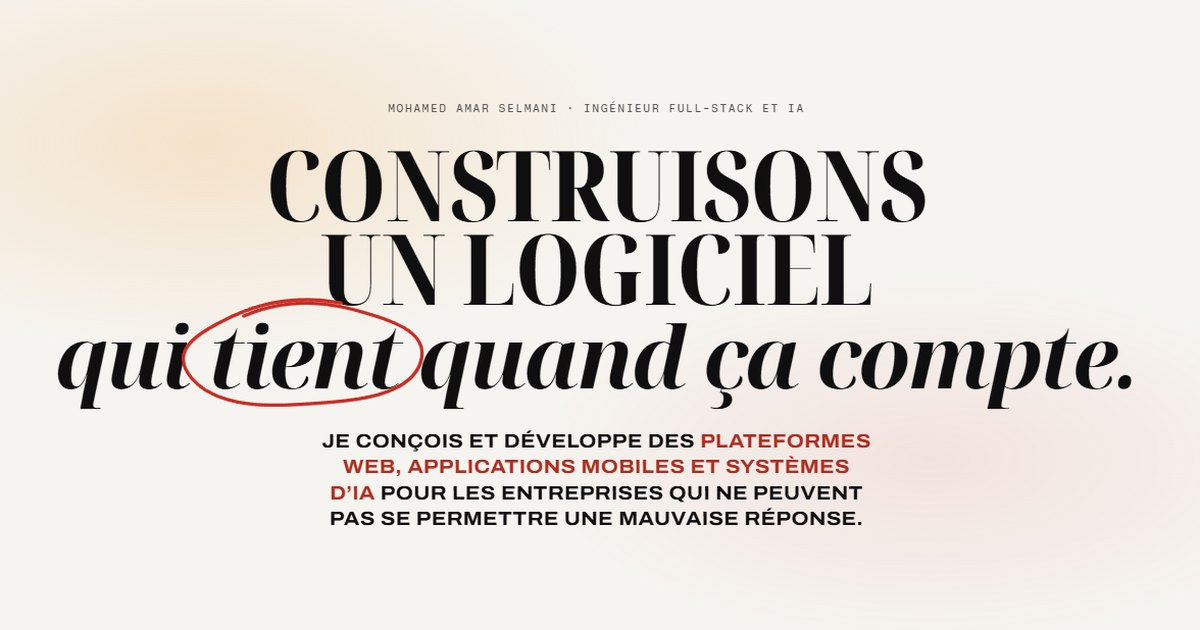
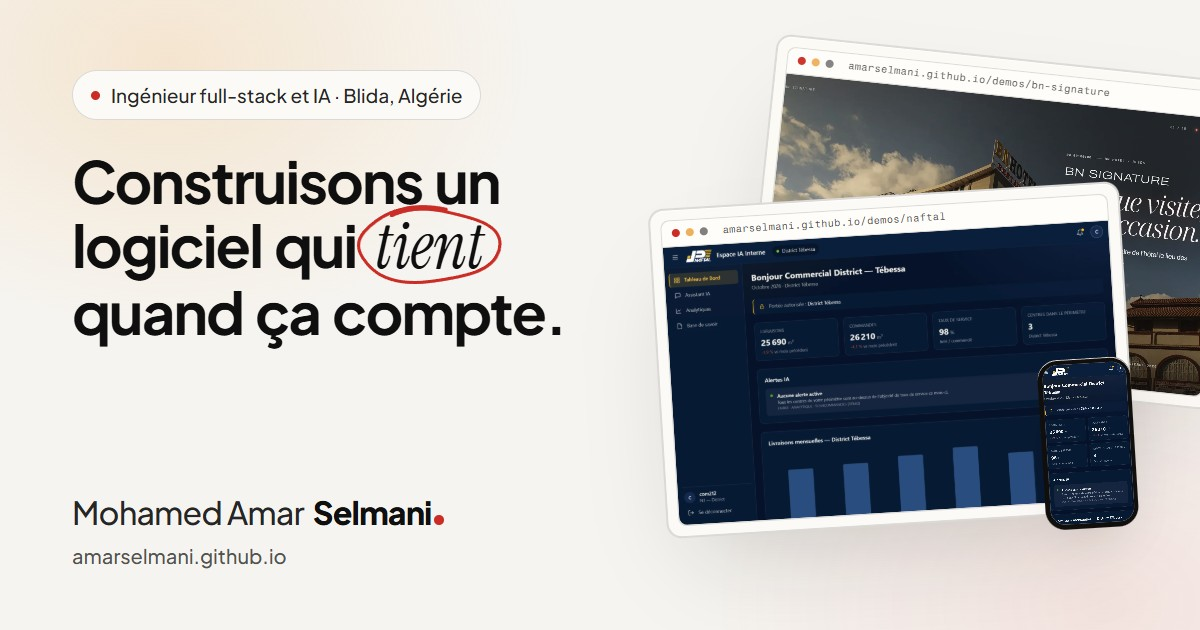
New link preview in the Clean Sheet design
The preview shared on WhatsApp, LinkedIn and Facebook still showed the
Contact Sheet capitals. The new one (EN and FR, 1200 x 630) has the headline
with the word circled in red pencil, the name and address, and real captures
of Naftal AI and BN Signature on the light table.

- src/og.html renders it from the site's own styles (open it, or ?fr, at
  1200 x 630 and save a screenshot over img/og.jpg / img/og-fr.jpg).
- og:image carries ?v= so sharing apps fetch the new picture; og:image:alt
  added.

diff --git a/src/og.html b/src/og.html
@@ -1,0 +1,110 @@
+<!doctype html>
+<!-- Link preview image (img/og.jpg, img/og-fr.jpg), 1200 × 630, in the site's own design ("Clean Sheet").
+     Render: serve the repo (python -m http.server 8000), open src/og.html (English) or src/og.html?fr
+     (French) in a 1200 × 630 window, wait for body[data-ready], save a JPEG screenshot over img/og.jpg or
+     img/og-fr.jpg. Not linked from the site. -->
+<html lang="en" data-genre="thriller" data-intensity="1" data-theme="light" data-tint="selmani">
+<head>
+<meta charset="utf-8">
+<meta name="robots" content="noindex">
+<title>Link preview</title>
+<link rel="stylesheet" href="https://fonts.googleapis.com/css2?family=Plus+Jakarta+Sans:ital,wght@0,200..800;1,200..800&family=Instrument+Serif:ital@0;1&family=Fragment+Mono&display=swap">
+<link rel="stylesheet" href="../assets/halation/halation.css">
+<link rel="stylesheet" href="../assets/halation/selmani.css">
+<link rel="stylesheet" href="../assets/site.css">
+<style>
+  html, body { margin: 0; inline-size: 1200px; block-size: 630px; overflow: hidden; }
+  body {
+    position: relative;
+    background:
+      radial-gradient(520px 380px at 14% 10%, color-mix(in oklch, var(--fill) 22%, transparent), transparent 70%),
+      radial-gradient(560px 420px at 92% 96%, color-mix(in oklch, var(--key) 9%, transparent), transparent 70%),
+      var(--bg);
+  }
+  .og { position: absolute; inset: 0; display: grid; grid-template-columns: 640px 1fr; }
+  .og__copy { display: flex; flex-direction: column; padding: 70px 0 58px 72px; }
+  .og .hero__kicker { align-self: flex-start; margin: 0 0 30px; padding: 9px 18px; gap: 11px; font-size: 19px; }
+  .og .hero__kicker::before { inline-size: 9px; block-size: 9px; }
+  .og__title { margin: 0; font-size: 58px; font-weight: 700; line-height: 1.06; letter-spacing: -0.032em; word-spacing: 0.06em; color: var(--fg-strong); }
+  .og__title .mark { position: relative; margin-inline: 0.1em 0.03em; font-family: var(--font-accent); font-style: italic; font-weight: 400; font-size: 1.12em; letter-spacing: -0.005em; }
+  .og__who { display: flex; flex-direction: column; gap: 10px; margin-block-start: auto; }
+  .og .brand { font-size: 32px; letter-spacing: -0.025em; }
+  .og__url { font-size: 20px; font-weight: 500; color: var(--fg-mute); }
+  /* two real captures on the light table, the front one with its phone */
+  .og__table { position: relative; }
+  .og__print { position: absolute; display: block; inline-size: 470px; }
+  .og__print--back { inset-block-start: 58px; inset-inline-start: 120px; rotate: 6deg; opacity: 0.96; }
+  .og__print--front { inset-block-start: 196px; inset-inline-start: 18px; rotate: -3.5deg; }
+  .og .print__mat { padding: 10px; }
+  .og .mock__url { font-size: 10px; }
+  .mark-svg { position: absolute; left: 0; top: 0; overflow: visible; pointer-events: none; }
+</style>
+</head>
+<body>
+<div class="og">
+  <div class="og__copy">
+    <p class="hero__kicker" data-t="kicker">Full-stack &amp; AI engineer · Blida, Algeria</p>
+    <h1 class="og__title" data-t="title">Let’s build software<br>that <span class="mark">holds</span><br>when it counts.</h1>
+    <div class="og__who">
+      <span class="brand"><span class="brand__first">Mohamed Amar</span><span class="brand__last">Selmani</span></span>
+      <span class="og__url">amarselmani.github.io</span>
+    </div>
+  </div>
+  <div class="og__table" aria-hidden="true">
+    <span class="og__print og__print--back"><span class="print__mat"><span class="mock mock--browser">
+      <span class="mock__bar"><i></i><i></i><i></i><span class="mock__url">amarselmani.github.io/demos/bn-signature</span></span>
+      <span class="mock__screen"><img src="../img/bn/deck-01.webp" alt="" style="object-position:50% 50%"></span>
+    </span></span></span>
+    <span class="og__print og__print--front"><span class="print__mat"><span class="mock mock--browser">
+      <span class="mock__bar"><i></i><i></i><i></i><span class="mock__url">amarselmani.github.io/demos/naftal</span></span>
+      <span class="mock__screen"><img src="../img/naftal-ai.webp" alt="" style="object-position:0 0"></span>
+      <span class="mock mock--phone mock--over" style="--ar:780 / 1410"><span class="mock__screen"><img src="../img/naftal-ai-phone.webp" alt=""></span></span>
+    </span></span></span>
+  </div>
+</div>
+<script>
+  // French: src/og.html?fr
+  if (/[?&]fr\b/.test(location.search)) {
+    document.documentElement.lang = 'fr';
+    document.querySelector('[data-t="kicker"]').textContent = 'Ingénieur full-stack et IA · Blida, Algérie';
+    document.querySelector('[data-t="title"]').innerHTML = 'Construisons un<br>logiciel qui <span class="mark">tient</span><br>quand ça compte.';
+  }
+  // the red pencil loop around the key word, drawn the way assets/site.js draws it
+  function smooth(p) {
+    var d = 'M' + p[0][0].toFixed(1) + ' ' + p[0][1].toFixed(1);
+    for (var i = 0; i < p.length - 1; i++) {
+      var a = p[i - 1] || p[i], b = p[i], c = p[i + 1], e = p[i + 2] || c;
+      d += ' C' + (b[0] + (c[0] - a[0]) / 6).toFixed(1) + ' ' + (b[1] + (c[1] - a[1]) / 6).toFixed(1) + ' ' +
+        (c[0] - (e[0] - b[0]) / 6).toFixed(1) + ' ' + (c[1] - (e[1] - b[1]) / 6).toFixed(1) + ' ' + c[0].toFixed(1) + ' ' + c[1].toFixed(1);
+    }
+    return d;
+  }
+  function loop(x, y, w, h) {
+    var cx = x + w / 2, cy = y + h / 2, rx = w / 2 + Math.max(8, h * 0.16), ry = Math.max(h * 0.42, 12);
+    var a0 = -Math.PI * 0.68, turn = 1.13, tilt = -0.02, pts = [];
+    for (var i = 0; i <= 40; i++) {
+      var t = i / 40, ang = a0 + t * turn * 2 * Math.PI;
+      var k = 1 + 0.035 * Math.sin(3 * ang + 1.3) + 0.02 * Math.sin(5 * ang + 4.1) + t * 0.08;
+      var px = Math.cos(ang) * rx * k, py = Math.sin(ang) * ry * k;
+      pts.push([cx + px * Math.cos(tilt) - py * Math.sin(tilt), cy + px * Math.sin(tilt) + py * Math.cos(tilt)]);
+    }
+    return smooth(pts);
+  }
+  document.fonts.ready.then(function () {
+    var el = document.querySelector('.og__title .mark'), host = el.parentElement;
+    host.style.position = 'relative';
+    var hb = host.getBoundingClientRect(), b = el.getBoundingClientRect();
+    var d = loop(b.left - hb.left, b.top - hb.top, b.width, b.height);
+    var NS = 'http://www.w3.org/2000/svg', svg = document.createElementNS(NS, 'svg');
+    svg.setAttribute('class', 'mark-svg'); svg.setAttribute('width', host.offsetWidth); svg.setAttribute('height', host.offsetHeight);
+    [['mark-svg__main', ''], ['mark-svg__ghost', 'translate(1.2 0.9)']].forEach(function (c) {
+      var p = document.createElementNS(NS, 'path'); p.setAttribute('class', c[0]); p.setAttribute('d', d);
+      if (c[1]) p.setAttribute('transform', c[1]); svg.appendChild(p);
+    });
+    host.appendChild(svg);
+    Promise.all(Array.prototype.map.call(document.images, function (i) { return i.decode ? i.decode().catch(function () {}) : null; }))
+      .then(function () { document.body.dataset.ready = '1'; });
+  });
+</script>
+</body>
+</html>

diff --git a/fr/index.html b/fr/index.html
@@ -15,9 +15,10 @@
 <meta property="og:title" content="Mohamed Amar Selmani · Ingénieur full-stack et IA">
 <meta property="og:description" content="Ingénieur full-stack et IA à Blida, en Algérie. Plateformes web, applications mobiles et systèmes d’IA qui tiennent quand ça compte, chacun avec une démo en ligne.">
 <meta property="og:url" content="https://amarselmani.github.io/fr/">
-<meta property="og:image" content="https://amarselmani.github.io/img/og-fr.jpg">
+<meta property="og:image" content="https://amarselmani.github.io/img/og-fr.jpg?v=8">
 <meta property="og:image:width" content="1200">
 <meta property="og:image:height" content="630">
+<meta property="og:image:alt" content="Mohamed Amar Selmani · Ingénieur full-stack et IA · Blida, Algérie">
 <meta property="og:locale" content="fr_FR">
 <meta name="twitter:card" content="summary_large_image">
 <link rel="icon" href="../favicon.svg" type="image/svg+xml">

diff --git a/fr/services.html b/fr/services.html
@@ -15,9 +15,10 @@
 <meta property="og:title" content="Services et tarifs · Mohamed Amar Selmani">
 <meta property="og:description" content="Sites, applications web, applications mobiles et assistants IA par Mohamed Amar Selmani, avec un prix de départ pour chacun.">
 <meta property="og:url" content="https://amarselmani.github.io/fr/services.html">
-<meta property="og:image" content="https://amarselmani.github.io/img/og-fr.jpg">
+<meta property="og:image" content="https://amarselmani.github.io/img/og-fr.jpg?v=8">
 <meta property="og:image:width" content="1200">
 <meta property="og:image:height" content="630">
+<meta property="og:image:alt" content="Mohamed Amar Selmani · Ingénieur full-stack et IA · Blida, Algérie">
 <meta property="og:locale" content="fr_FR">
 <meta name="twitter:card" content="summary_large_image">
 <link rel="icon" href="../favicon.svg" type="image/svg+xml">

diff --git a/index.html b/index.html
@@ -15,9 +15,10 @@
 <meta property="og:title" content="Mohamed Amar Selmani · Full-stack &amp; AI engineer">
 <meta property="og:description" content="Full-stack and AI engineer in Blida, Algeria. Web platforms, mobile apps and AI systems that hold when it counts, each with a live demo.">
 <meta property="og:url" content="https://amarselmani.github.io/">
-<meta property="og:image" content="https://amarselmani.github.io/img/og.jpg">
+<meta property="og:image" content="https://amarselmani.github.io/img/og.jpg?v=8">
 <meta property="og:image:width" content="1200">
 <meta property="og:image:height" content="630">
+<meta property="og:image:alt" content="Mohamed Amar Selmani · Full-stack &amp; AI engineer · Blida, Algeria">
 <meta property="og:locale" content="en_US">
 <meta name="twitter:card" content="summary_large_image">
 <link rel="icon" href="favicon.svg" type="image/svg+xml">

diff --git a/services.html b/services.html
@@ -15,9 +15,10 @@
 <meta property="og:title" content="Services &amp; prices · Mohamed Amar Selmani">
 <meta property="og:description" content="Websites, web apps, mobile apps and AI assistants by Mohamed Amar Selmani, with a starting price for each.">
 <meta property="og:url" content="https://amarselmani.github.io/services.html">
-<meta property="og:image" content="https://amarselmani.github.io/img/og.jpg">
+<meta property="og:image" content="https://amarselmani.github.io/img/og.jpg?v=8">
 <meta property="og:image:width" content="1200">
 <meta property="og:image:height" content="630">
+<meta property="og:image:alt" content="Mohamed Amar Selmani · Full-stack &amp; AI engineer · Blida, Algeria">
 <meta property="og:locale" content="en_US">
 <meta name="twitter:card" content="summary_large_image">
 <link rel="icon" href="favicon.svg" type="image/svg+xml">

diff --git a/README.md b/README.md
@@ -38,6 +38,7 @@ The contact form sends nothing itself: it opens WhatsApp or the visitor's e-mail
 |---|---|
 | `src/content.mjs` | **All words and prices**, English and French. `{c:word}` circles a word, `{u:words}` underlines, `{k:words}` sets red, `{em:words}` the italic voice. |
 | `src/build.mjs` | Renders the four pages: `node src/build.mjs` after any content change. |
+| `src/og.html` | The link preview (`img/og.jpg`, `img/og-fr.jpg`, 1200 × 630) in the site's design. Serve the repo, open `src/og.html` (or `?fr`) in a 1200 × 630 window, save a JPEG screenshot over the image, then bump `V` so WhatsApp, LinkedIn and Facebook fetch the new one (`og:image` carries `?v=`). |
 | `assets/site.css` | Layout and type. Halation tokens only: no literal colors or radii; the fonts are set once as tokens at the top. The demo pages load the same fonts: keep their `<link>` in step with `FONTS` in `src/build.mjs`. |
 | `assets/site.js` | Red pencil marks, light table, service drawings, counters, tabs, form, theme and motion toggles. |
 | `assets/halation/` | Copied from Halation 1.0.0 (`Documents\Motion design`), including `selmani.css` (the paper tint). Re-copy to update; don't edit here. |
